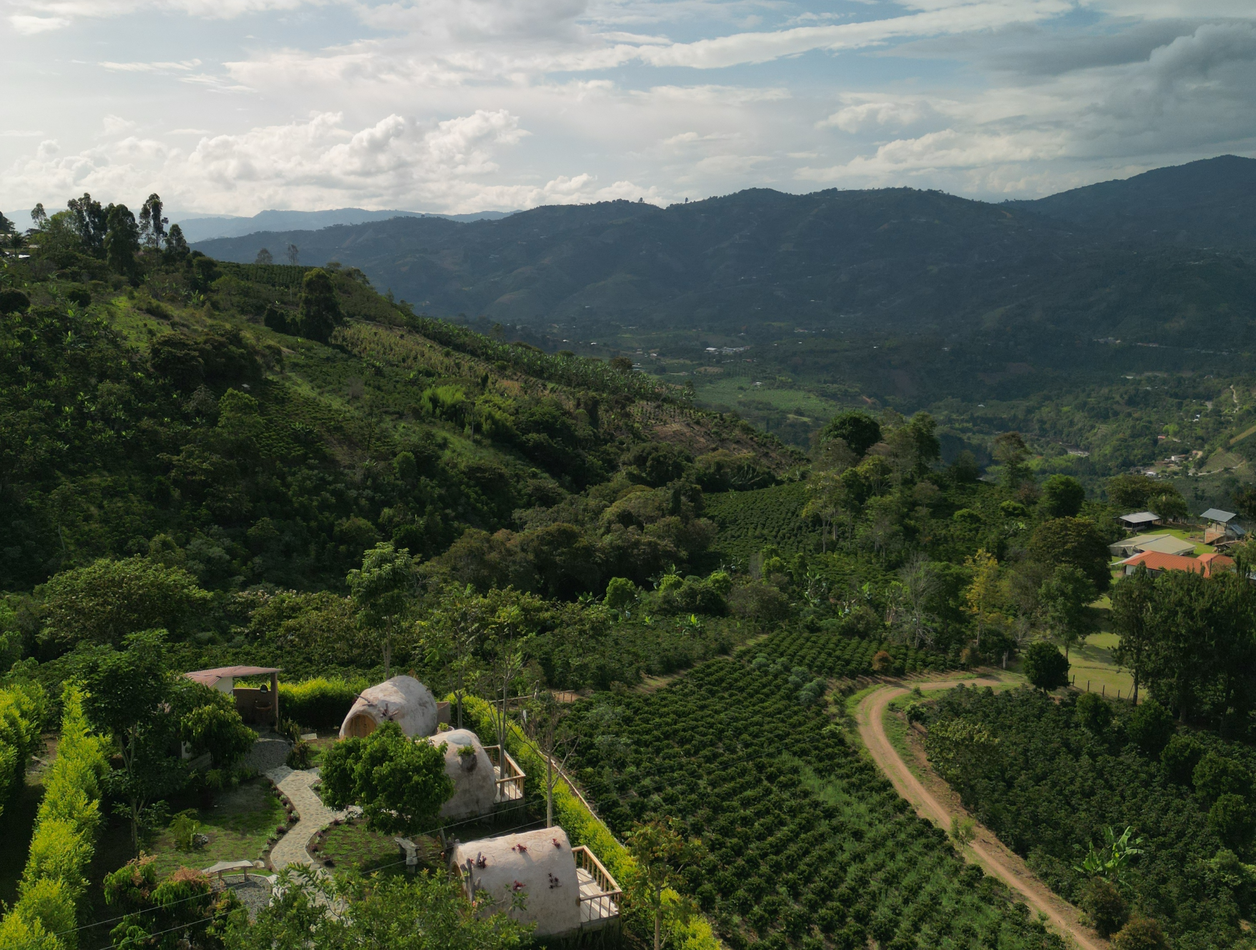
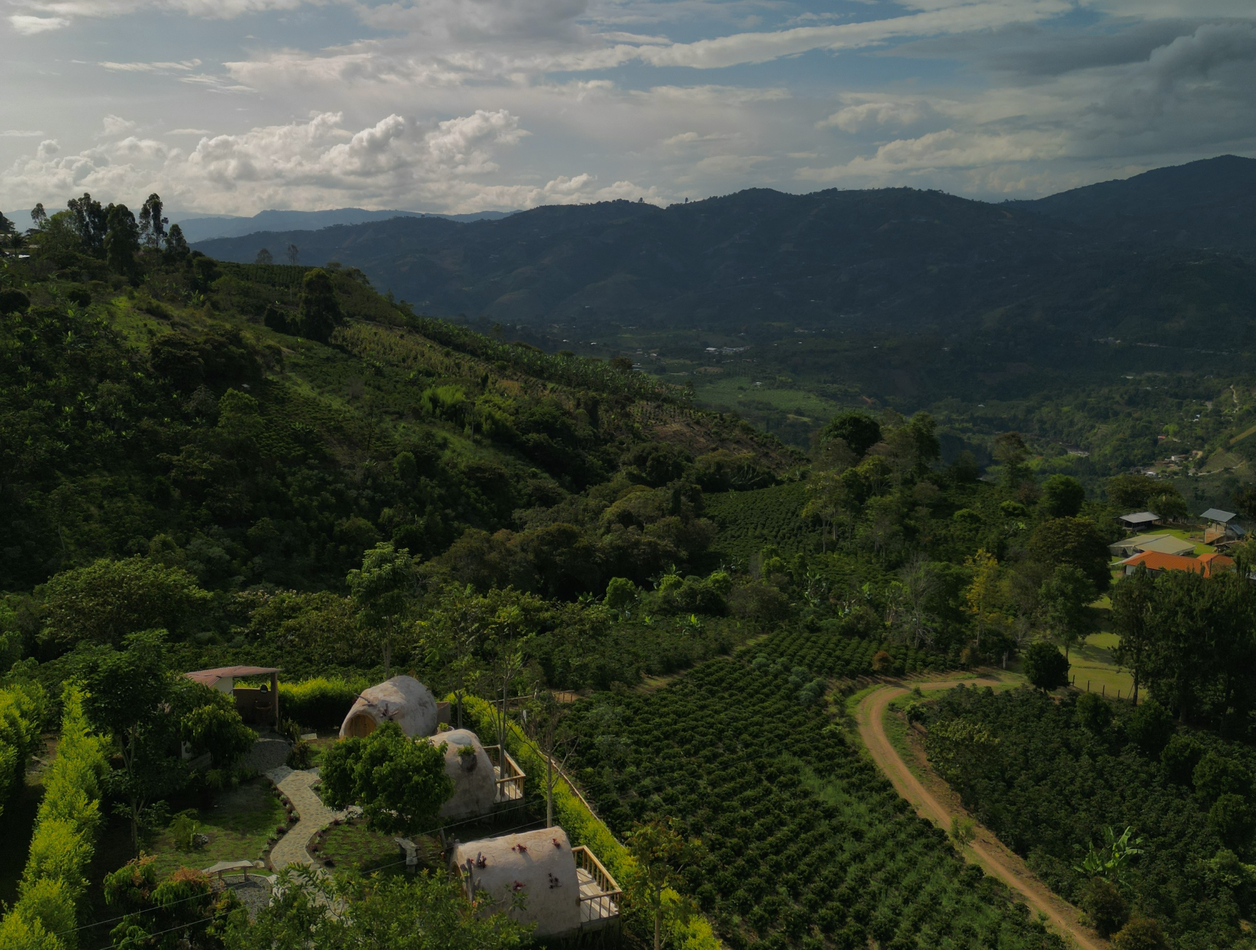
change color palette

diff --git a/src/sections/Home.jsx b/src/sections/Home.jsx
@@ -52,20 +52,20 @@ function Home() {
         className="mySwiper"
       >
         <SwiperSlide>
-          <div className="bg-nidos-view ">
-            <div className="flex flex-col gap-8 my-auto">
-              <div className="w-[70vw] lg:w-[25vw] mx-auto">
+          <div className="bg-nidos-view brightness-60 flex items-center justify-center">
+            <div className="flex flex-col  gap-8">
+              <div className="w-[70vw] font-bold lg:w-[23vw] mx-auto relative top-14">
                 <Image
-                  width={500}
+                  width={80}
                   height={30}
                   src="./wayra-logo.svg"
                   alt="Wayra Logo"
                   className="mx-auto"
                 />
                 <p
-                  className={`text-4xl  sm:text-6xl mt-4 relative left-9 sm:left-14 bottom-24  sm:bottom-36 text-white ${tajawal.className}`}
+                  className={`text-4xl   sm:text-6xl mt-4 relative left-9 sm:left-14 bottom-24  sm:bottom-36 text-white ${tajawal.className}`}
                 >
-                  Finca <span className="ml-12  sm:ml-20">Turística</span>
+                  Finca <span className="ml-12 sm:ml-20">Turística</span>
                 </p>
               </div>
               <div
@@ -120,9 +120,9 @@ function Home() {
           </div>
         </SwiperSlide>
         <SwiperSlide>
-          <div className="bg-cabana ">
+          <div className="bg-cabana flex items-center justify-center">
             <div className="flex flex-col gap-8 ">
-              <div className="w-[70vw] lg:w-[25vw]  mx-auto relative top-14 my-auto">
+              <div className="w-[70vw] lg:w-[23vw] mx-auto relative top-14 ">
                 <Image
                   width={500}
                   height={30}
@@ -131,9 +131,9 @@ function Home() {
                   className="mx-auto"
                 />
                 <p
-                  className={`text-4xl  sm:text-6xl mt-4 relative left-9 sm:left-14 bottom-24 lg:text-5xl  sm:bottom-36 text-white ${tajawal.className}`}
+                  className={`text-4xl sm:text-6xl mt-4 relative left-9 sm:left-14 bottom-24  sm:bottom-36 text-white ${tajawal.className}`}
                 >
-                  Finca <span className="ml-12  sm:ml-20">Turística</span>
+                  Finca <span className="ml-12 sm:ml-20">Turística</span>
                 </p>
               </div>
               <div
@@ -199,9 +199,9 @@ function Home() {
           </div>
         </SwiperSlide>
         <SwiperSlide>
-          <div className="bg-birds ">
-            <div className="flex flex-col gap-8 ">
-              <div className="w-[70vw] lg:w-[25vw]  mx-auto relative top-14">
+          <div className="bg-birds brightness-30  flex items-center z-0 justify-center ">
+            <div className="flex flex-col gap-8 z-10">
+              <div className="w-[70vw] lg:w-[23vw]  mx-auto relative top-14">
                 <Image
                   width={500}
                   height={30}
@@ -210,7 +210,7 @@ function Home() {
                   className="mx-auto"
                 />
                 <p
-                  className={`text-4xl  sm:text-6xl mt-4 relative left-9 sm:left-14 bottom-24 lg:text-5xl  sm:bottom-36 text-white ${tajawal.className}`}
+                  className={`text-4xl  sm:text-6xl mt-4 relative left-9 sm:left-14 bottom-24  sm:bottom-36 text-white ${tajawal.className}`}
                 >
                   Finca <span className="ml-12  sm:ml-20">Turística</span>
                 </p>

diff --git a/src/sections/About.jsx b/src/sections/About.jsx
@@ -11,7 +11,7 @@ import { Navigation } from "swiper/modules";
 
 function About() {
   return (
-    <div className="w-[90vw] h-max mx-auto  sm:h-max bg-[#faf9f9] font-thin  sm:my-4">
+    <div className="w-[100vw] h-max mx-auto  sm:h-max bg-[#faf9f9] font-thin mx-10 ">
       <Swiper
         style={{
           "--swiper-navigation-color": "#0C4049",
@@ -21,9 +21,9 @@ function About() {
         slidesPerView={"auto"}
         navigation={true}
         modules={[Navigation]}
-        className="sm:mx-8"
+        className="sm:mx-8 max-w-[95vw]"
       >
-        <SwiperSlide className="">
+        <SwiperSlide className="lg:w-[800px]">
           <motion.div
             initial="hidden"
             whileInView="visible"
@@ -33,7 +33,7 @@ function About() {
               hidden: { opacity: 0, y: 50 },
               visible: { opacity: 1, y: 0 },
             }}
-            className="px-4 justify-center bg-[#faf9f9] w-[80vw] lg:w-[25vw] mt-10  mx-20  flex flex-col gap-4 h-[500px] "
+            className="px-4 justify-center w-[80vw] lg:w-[600px] mt-10  mx-20  flex flex-col gap-4 h-[500px] "
           >
             <div className="mx-auto ">
               <Image
@@ -57,7 +57,7 @@ function About() {
           </motion.div>
         </SwiperSlide>
 
-        <SwiperSlide className="">
+        <SwiperSlide className="lg:w-[800px]">
           <motion.div
             initial="hidden"
             whileInView="visible"
@@ -67,7 +67,7 @@ function About() {
               hidden: { opacity: 0, y: 50 },
               visible: { opacity: 1, y: 0 },
             }}
-            className="px-4 justify-center bg-[#faf9f9] mt-10  w-[80vw] lg:w-[25vw] mx-20  flex flex-col gap-4 h-[500px]"
+            className="px-4 justify-center lg:w-[600px] mt-10  w-[80vw] lg:w-[25vw] mx-20  flex flex-col gap-4 h-[500px]"
           >
             <div className=" mx-auto">
               <Image
@@ -96,7 +96,7 @@ function About() {
           </motion.div>
         </SwiperSlide>
 
-        <SwiperSlide className="">
+        <SwiperSlide className="lg:w-[800px]">
           <motion.div
             initial="hidden"
             whileInView="visible"
@@ -106,7 +106,7 @@ function About() {
               hidden: { opacity: 0, y: 50 },
               visible: { opacity: 1, y: 0 },
             }}
-            className="px-4 justify-center bg-[#faf9f9] mt-10 w-[80vw] lg:w-[25vw] mx-20  flex flex-col gap-4 h-[500px]"
+            className="px-4 justify-center  lg:w-[600px] mt-10 w-[80vw] mx-20  flex flex-col gap-4 h-[500px]"
           >
             <div className=" mx-auto">
               <Image
@@ -129,7 +129,7 @@ function About() {
           </motion.div>
         </SwiperSlide>
 
-        <SwiperSlide className="">
+        <SwiperSlide className="lg:w-[800px]">
           <motion.div
             initial="hidden"
             whileInView="visible"
@@ -139,9 +139,9 @@ function About() {
               hidden: { opacity: 0, y: 50 },
               visible: { opacity: 1, y: 0 },
             }}
-            className="px-4 mt-10 w-[80vw] lg:w-[25vw] mx-20 justify-center bg-[#faf9f9]  flex flex-col gap-4 h-[500px]"
+            className="px-4 mt-10 w-[80vw] lg:w-[600px] mx-20 justify-center  flex flex-col gap-4 h-[500px]"
           >
-            <div className="mx-auto">
+            <div className="mx-auto max-w-[600px]">
               <Image
                 className="object-cover mx-auto w-[220px] rounded-[100%]"
                 width={160}

diff --git a/src/app/globals.css b/src/app/globals.css
@@ -5,6 +5,14 @@
 .body {
   width: 100vw;
 }
+.bg-nav-gradient {
+  background: rgb(34, 193, 195);
+  background: linear-gradient(
+    81deg,
+    rgba(34, 193, 195, 1) 0%,
+    rgba(253, 187, 45, 1) 100%
+  );
+}
 
 .bg-home-gradient {
   background: rgb(250, 250, 250);
@@ -30,75 +38,32 @@
     rgba(163, 230, 255, 1) 91.1%
   );
 }
- {
-  /** backgrounds OF HOME ****/
-}
-.bg-cabana {
-  background-image: url("/cabana1.jpg");
-  background-size: cover;
-  background-position: center;
-  position: relative;
-  width: 100%;
-  height: 100vh;
-}
 
-.bg-cabana::before {
-  content: "";
-  display: block;
-  position: absolute;
-  top: 0;
-  left: 0;
+.bg-cabana {
+  background-image: url("/home3.jpg");
+  background-size: cover;
+  object-fit: cover;
   width: 100%;
   height: 100%;
-  background: inherit;
-  filter: brightness(0.75);
 }
 
 .bg-nidos-view {
   background-image: url("/home.jpg");
   background-size: cover;
-  background-position: center;
-  position: relative;
-  width: 100%;
-  height: 100vh;
-}
+  object-fit: cover;
 
-.bg-nidos-view::before {
-  content: "";
-  display: block;
-  position: absolute;
-  top: 0;
-  left: 0;
   width: 100%;
   height: 100%;
-  background: inherit;
-  filter: brightness(0.75);
 }
-
 .bg-birds {
   background-image: url("/home2.jpg");
   background-size: cover;
-  background-position: center;
-  position: relative;
-  width: 100%;
-  height: 100vh;
-}
+  object-fit: cover;
 
-.bg-birds::before {
-  content: "";
-  display: block;
-  position: absolute;
-  top: 0;
-  left: 0;
   width: 100%;
   height: 100%;
-  background: inherit;
-  filter: brightness(0.75);
 }
 
- {
-  /*ABOUT SECTION **/
-}
 .bg-nosotros {
   background-image: url("/laberinto1.jpg");
   background-size: cover;

diff --git a/src/sections/Atractivos.jsx b/src/sections/Atractivos.jsx
@@ -17,7 +17,7 @@ function Atractivos() {
     <section className="h-max" id="atractivos">
       <MotionAnimationLeft
         content={
-          <h1 className="text-center lg:text-start text-4xl lg:text-8xl ml-12 text-[#0C4049]">
+          <h1 className="text-center lg:text-start text-4xl lg:text-8xl ml-12 text-[#1faeb0]">
             NUESTROS ATRACTIVOS
           </h1>
         }
@@ -38,7 +38,7 @@ function Atractivos() {
               <div className="flex flex-wrap justify-center ">
                 <LaberintoSwiper />
                 <div className="w-full sm:max-w-[550px] my-10  sm:m-6 shadow-xl bg-white p-1 sm:p-4 rounded-lg ">
-                  <h2 className="text-2xl  sm:text-4xl text-center  text-[#216974] ">
+                  <h2 className="text-2xl  sm:text-4xl text-center  text-[#e4a829] ">
                     Primer Laberinto Mirador del Huila
                   </h2>
                   <ul className="text-xl  font-thin  my-8">
@@ -110,7 +110,7 @@ function Atractivos() {
             content={
               <div className="flex flex-wrap justify-center gap-14 mx-8">
                 <div className="max-w-[600px] bg-white sm:m-6 p-2 shadow-xl  rounded-lg my-auto">
-                  <h2 className="text-2xl sm:text-4xl text-[#216974] text-bold">
+                  <h2 className="text-2xl sm:text-4xl text-[#e4a829] text-bold">
                     Una representación artística de la avifauna de nuestra
                     región
                   </h2>

diff --git a/src/components/Navbar.jsx b/src/components/Navbar.jsx
@@ -13,17 +13,13 @@ function Navbar() {
       <div
         className={` ${
           openMobileMenu ? "h-[100vh] w-[80vw]" : ""
-        } w-[100vw] fixed top-0 left-0 ease-in duration-300 z-20  bg-[#0C4049]`}
+        } w-[100vw] fixed top-0 left-0 ease-in duration-300 z-20  bg-nav-gradient`}
       >
         <nav className="flex items-center w-full p-2 max-w-[1240px]  text-[#F4F1E9]  mx-auto justify-between ">
           <Link href="/" className="flex items-center">
-            <Image
-              width={90}
-              height={20}
-              src="./wayra-logo.svg"
-              alt="Wayra Logo"
-              className={`${openMobileMenu ? "hidden" : "block"}`}
-            />
+            <p className={`text-5xl ${openMobileMenu ? "hidden" : "block"}`}>
+              WAYRA
+            </p>
           </Link>
           <div className="flex flex-col gap-20 items-start p-2">
             <button
@@ -85,8 +81,8 @@ function Navbar() {
                       height={5}
                       alt="icon"
                     />
-                    <p>
-                      <span className="text-gray-400">+ 57</span> 315 839 51 09{" "}
+                    <p className="text-[#111112]/70">
+                      <span className="text-gray-500">+ 57</span> 315 839 51 09{" "}
                     </p>
                   </div>
                 </div>

diff --git a/src/components/ReservaButton.jsx b/src/components/ReservaButton.jsx
@@ -8,9 +8,11 @@ function ReservaButton() {
       whileHover={{ scale: 1.1, transition: { duration: 0.2 } }}
       className=" flex justify-center mb-4 sm:my-8"
     >
-      <button className="px-4 py-2 shadow-md text-white hover:bg-[#e08653] text-2xl bg-[#E09453] transition-all rounded-md w-52 cursor-pointer">
-        Reservar
-      </button>
+      <a href="https://Wa.me/3157317717" target="_blank">
+        <button className="px-4 py-2 shadow-md text-white hover:bg-[#e08653] text-2xl bg-[#e4a829] transition-all rounded-md w-52 cursor-pointer">
+          Reservar
+        </button>
+      </a>
     </motion.div>
   );
 }

diff --git a/src/sections/Comments.jsx b/src/sections/Comments.jsx
@@ -42,7 +42,7 @@ function Comments() {
     <section className=" max-w-[90vw] lg:max-w-[1500px] my-8 lg:my-32 mx-auto  lg:h-[70vh]">
       <MotionAnimationRight
         content={
-          <h1 className="flex justify-end py-8 text-4xl lg:text-8xl text-[#216974]">
+          <h1 className="flex justify-end py-8 text-4xl lg:text-8xl text-[#1faeb0]">
             ¿Qué dicen nuestros clientes?
           </h1>
         }

diff --git a/src/sections/Hospedaje.jsx b/src/sections/Hospedaje.jsx
@@ -19,7 +19,7 @@ function Hospedaje() {
     <section className="pt-8 sm:pt-4 h-max w-full " id="hospedaje">
       <MotionAnimationLeft
         content={
-          <h1 className="text-center lg:text-start lg:ml-24 lg:text-7xl py-4  text-4xl text-[#216974]">
+          <h1 className="text-center lg:text-start lg:ml-24 lg:text-7xl py-4  text-4xl text-[#1faeb0]">
             HOSPEDAJE
           </h1>
         }

diff --git a/src/sections/Galeria.jsx b/src/sections/Galeria.jsx
@@ -56,7 +56,7 @@ export default function Galeria() {
           visible: { opacity: 1, y: 0 },
         }}
       >
-        <h1 className="text-center lg:text-end lg:mr-14 py-4 text-4xl lg:text-8xl text-[#216974]">
+        <h1 className="text-center lg:text-end lg:mr-14 py-4 text-4xl lg:text-8xl text-[#1faeb0]">
           GALERÍA
         </h1>
       </motion.div>
